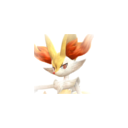
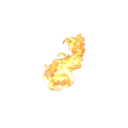
Spread out the applicance of powers in the vixen fight. Replaced the image of the vixen relic. Improved wording on some powers in the english locale.

Changed region(s): [[0.25, 0.25, 0.75, 0.75]]

diff --git a/src/main/java/paleoftheancients/thevixen/monsters/TheVixenBoss.java b/src/main/java/paleoftheancients/thevixen/monsters/TheVixenBoss.java
@@ -194,6 +194,7 @@ public class TheVixenBoss extends CustomMonster {
     private boolean firstCycle = true;
     private boolean usedOverdrive = false;
     public boolean oneHP = false;
+    private boolean buffedCycle = false;
 
 
     private ArrayList<Byte> cycletracker = new ArrayList<>();
@@ -352,14 +353,7 @@ public class TheVixenBoss extends CustomMonster {
 
         CardCrawlGame.sound.playV(PaleMod.makeID("vixencry"), 0.15F);
 
-        int defiant = 2;
-        if(AbstractDungeon.ascensionLevel >= 9) {
-            defiant++;
-        }
         AbstractDungeon.actionManager.addToBottom(new ApplyPowerAction(this, this, new SunnyDayPower(this, 1), 1));
-        AbstractDungeon.actionManager.addToBottom(new ApplyPowerAction(this, this, new DefiantPower(this, defiant), defiant));
-        AbstractDungeon.actionManager.addToBottom(new ApplyPowerAction(this, this, new GutsPower(this, 5), 5));
-
     }
 
     public void takeTurn() {
@@ -552,6 +546,24 @@ public class TheVixenBoss extends CustomMonster {
         if(++turncounter % this.sunny_turncount == 0) {
             AbstractDungeon.actionManager.addToBottom(new ApplyPowerAction(this, this, new SunnyDayPower(this, 1), 1));
         }
+        if(!buffedCycle) {
+            buffedCycle = true;
+            switch(this.lastCycle) {
+                case Fire:
+                    AbstractDungeon.actionManager.addToBottom(new ApplyPowerAction(this, this, new DefiantPower(this, 2), 1));
+                    break;
+                case Confusion:
+                    AbstractDungeon.actionManager.addToBottom(new HealAction(this, this, this.maxHealth / 10));
+                    break;
+                case Debuffs:
+                    AbstractDungeon.actionManager.addToBottom(new ApplyPowerAction(this, this, new GutsPower(this, 5), 5));
+                    break;
+
+                default:
+                    buffedCycle = false;
+                    break;
+            }
+        }
 
         AbstractDungeon.actionManager.addToBottom(new RollMoveAction(this));
     }
@@ -697,6 +709,7 @@ public class TheVixenBoss extends CustomMonster {
             possibilities.remove(this.lastCycle);
         }
         cycletracker.clear();
+        this.buffedCycle = false;
         this.lastCycle = possibilities.get(AbstractDungeon.aiRng.random(possibilities.size() - 1));
         switch(this.lastCycle) {
             case Fire:

diff --git a/src/main/java/paleoftheancients/reimu/powers/FreeControlPower.java b/src/main/java/paleoftheancients/reimu/powers/FreeControlPower.java
@@ -23,7 +23,6 @@ public class FreeControlPower extends AbstractPower {
 
         type = PowerType.BUFF;
         isTurnBased = false;
-        this.canGoNegative = true;
 
         this.region128 = new TextureAtlas.AtlasRegion(AssetLoader.loadImage(PaleMod.assetPath("images/reimu/powers/SpellCard84.png")), 0, 0, 84, 84);
         this.region48 = new TextureAtlas.AtlasRegion(AssetLoader.loadImage(PaleMod.assetPath("images/reimu/powers/SpellCard32.png")), 0, 0, 32, 32);
